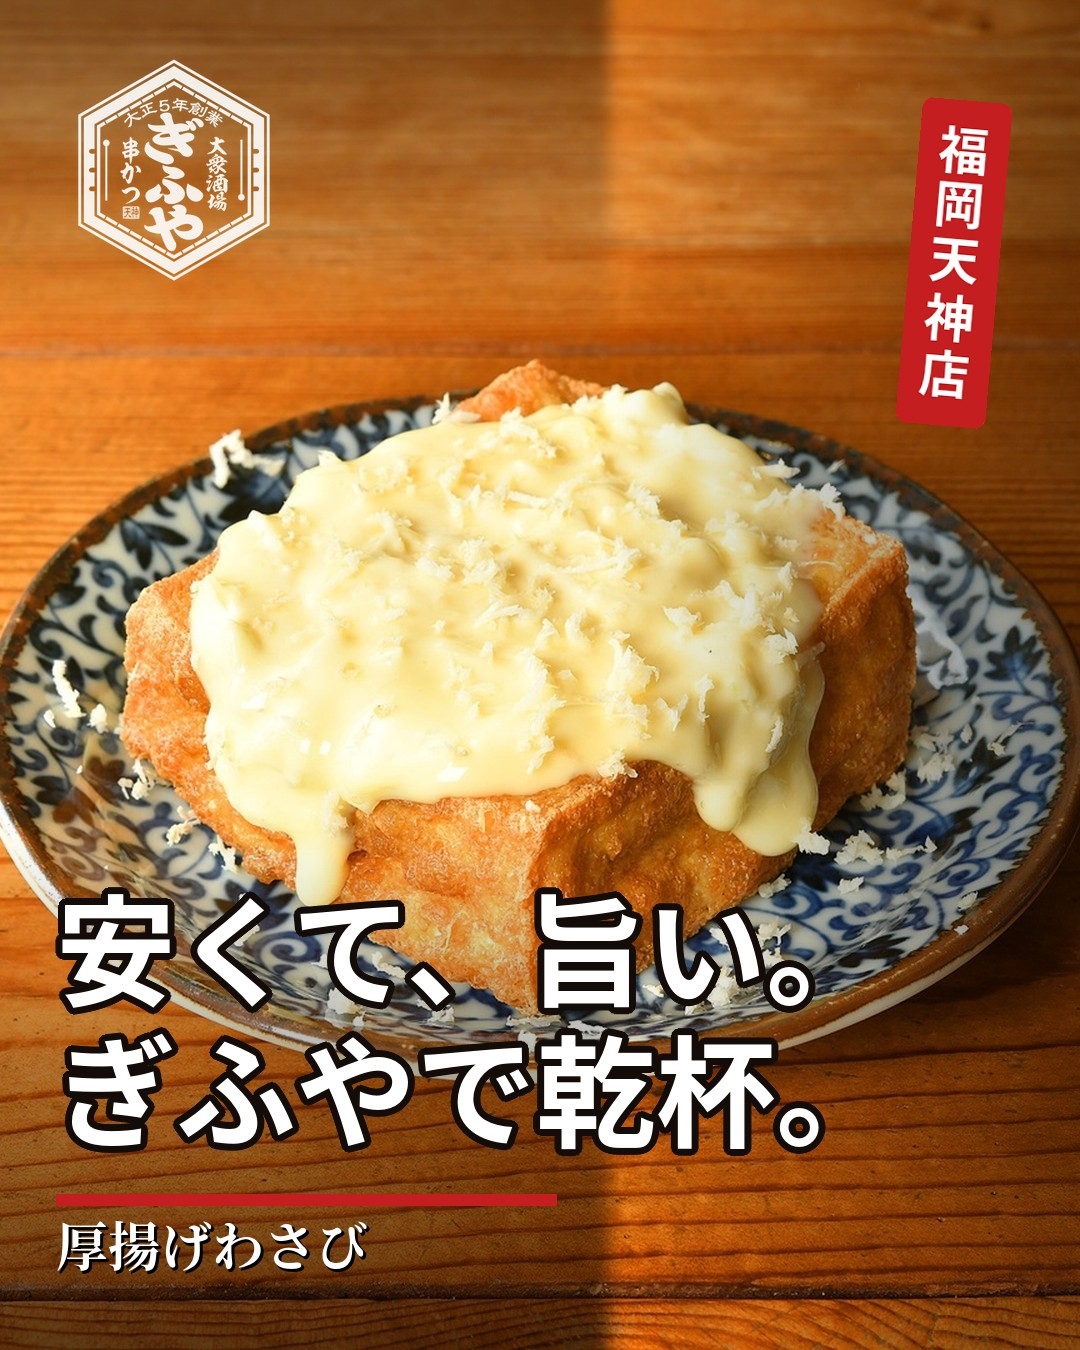
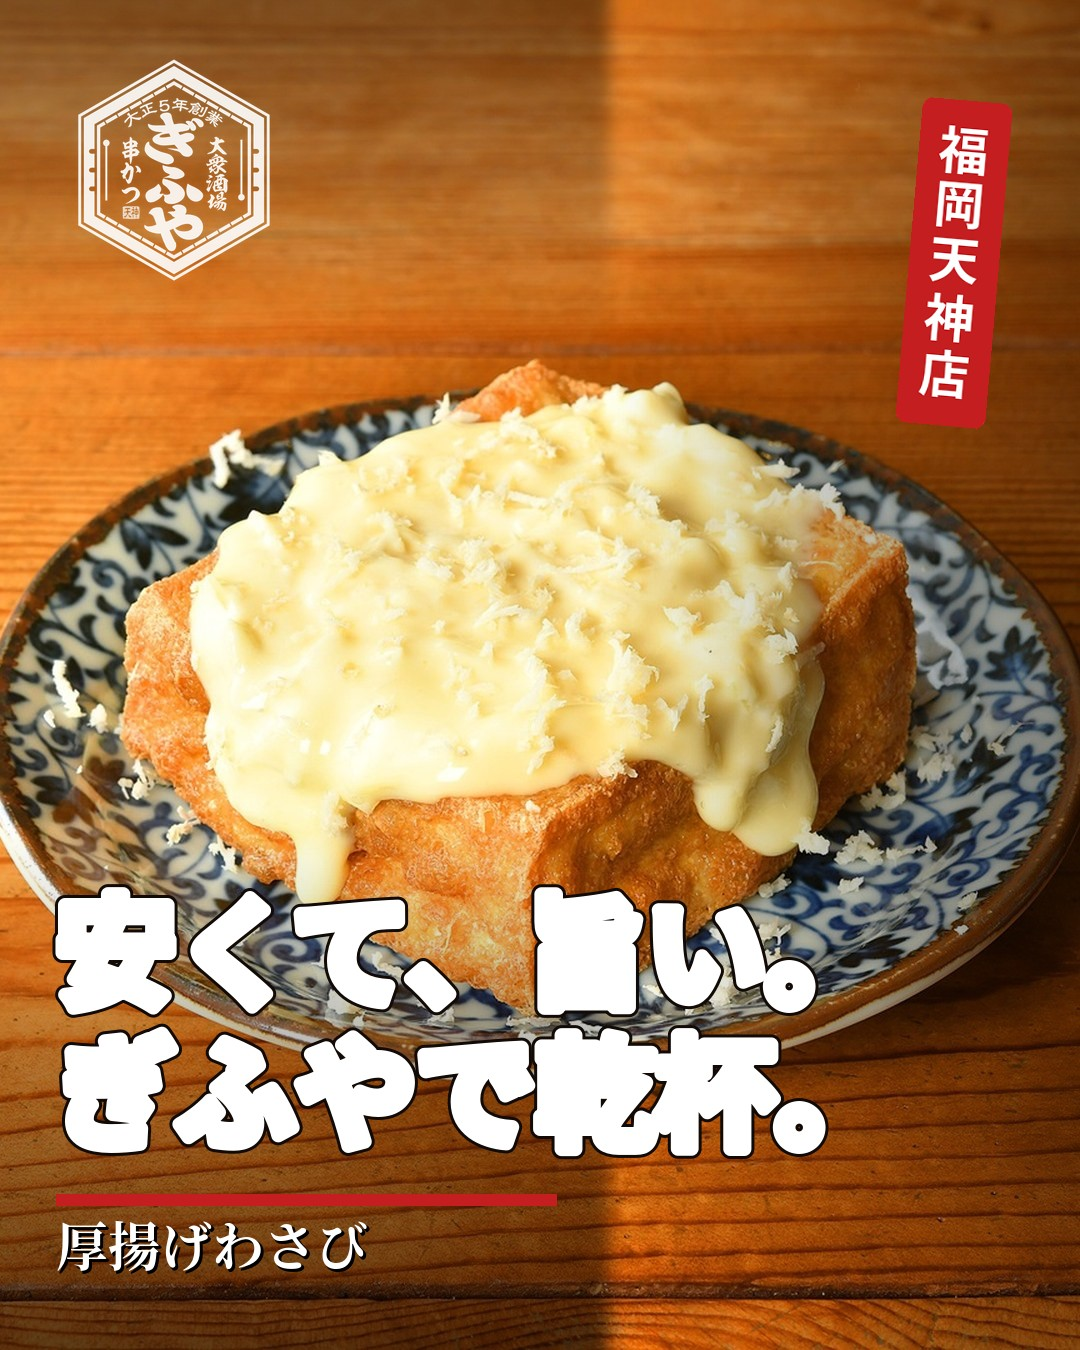
ぎふや #44 短冊の見出しフォントを見本どてかつ相当の極太ゴシックへ／キャッシュv130
- render_tanzaku の見出しを _text_heavy（Noto Sans Bold をストロークで太らせ＋暗フチ）に変更し、
  見本 pattern_tanzaku.jpg の極太アングラー・ゴシックに一致
- fd_845508acf0.jpg 再生成／SW v129→v130・メディアバスター v130

Claude-Session: https://claude.ai/code/session_01Di2y2Fk2KdXwa37iAoiNS2

Changed region(s): [[0.0306, 0.6533, 0.7639, 0.8711]]

diff --git a/pwa/sw.js b/pwa/sw.js
@@ -2,7 +2,7 @@
    ・アプリのガワ(shell)を precache → 2回目以降は“開いた瞬間”に表示
    ・jsDelivr のメディアは stale-while-revalidate でランタイムキャッシュ
    ・GAS(JSONP)などデータ通信はキャッシュしない（常に最新を取りに行く） */
-var VER = "susabiyu-v129";
+var VER = "susabiyu-v130";
 var SHELL = VER + "-shell";
 var MEDIA = VER + "-media";
 var SHELL_FILES = [

diff --git a/pwa/gifuya_reels.html b/pwa/gifuya_reels.html
@@ -158,7 +158,7 @@
 <script>
 (function(){
   "use strict";
-  var V = "?v=129";  // メディアのキャッシュ更新用
+  var V = "?v=130";  // メディアのキャッシュ更新用
   var CFG = window.GIFUYA || {};
   var LIVE = !!window.GIFUYA_LIVE;               // 専用GAS注入済みなら実データ連携
   var GAS = (CFG.GAS_URL||"").trim();

diff --git a/susabiyu-remotion/gifuya_design.py b/susabiyu-remotion/gifuya_design.py
@@ -175,13 +175,14 @@ def render_post(src, out, title, subcopy=None, ribbon="福岡天神店", logo=Tr
 #   右に赤の縦リボン短冊「福岡天神店」＋左下に極太の見出し＋赤下線＋料理名サブ。
 #   使い方: render_tanzaku("in.jpg", "out.jpg", "厚揚げわさび", headline="旨い、安い")
 # ─────────────────────────────────────────────────────────────────────────────
-def _text_outline(draw, xy, text, font, fill=(255, 255, 255), outline=(0, 0, 0), ow=6, anchor=None):
-    x, y = xy
-    for dx in range(-ow, ow + 1):
-        for dy in range(-ow, ow + 1):
-            if dx * dx + dy * dy <= ow * ow:
-                draw.text((x + dx, y + dy), text, font=font, fill=outline, anchor=anchor)
-    draw.text((x, y), text, font=font, fill=fill, anchor=anchor)
+def _text_heavy(draw, xy, text, font, fill=(255, 255, 255), edge=(18, 10, 6),
+                weight=7, ow=3, anchor=None):
+    """見本 pattern_tanzaku 相当の極太ゴシック見出し：Noto Sans Bold をストロークで太らせ、
+    さらに細い暗色のフチで写真に載せても抜けて見えるようにする。"""
+    draw.text(xy, text, font=font, fill=edge, anchor=anchor,
+              stroke_width=weight + ow, stroke_fill=edge)
+    draw.text(xy, text, font=font, fill=fill, anchor=anchor,
+              stroke_width=weight, stroke_fill=fill)
 
 
 def _vertical_ribbon(text, font, pad_x=20, pad_y=26, line_gap_ratio=0.12):
@@ -240,8 +241,8 @@ def render_tanzaku(src, out, title, headline=None, ribbon="福岡天神店", log
     block_h = lh * max(1, len(hlines))
     hy = ul_y - 30 - block_h
     for i, ln in enumerate(hlines):
-        _text_outline(draw, (margin, hy + i * lh - hfont.getbbox(ln)[1] + 8),
-                      ln, hfont, fill=(255, 255, 255), outline=(20, 12, 8), ow=7)
+        _text_heavy(draw, (margin, hy + i * lh - hfont.getbbox(ln)[1] + 8),
+                    ln, hfont, fill=(255, 255, 255), edge=(18, 10, 6), weight=7, ow=3)
     # 赤下線バー
     ul_w = 500
     draw.rectangle([margin, ul_y, margin + ul_w, ul_y + 11], fill=RED)
